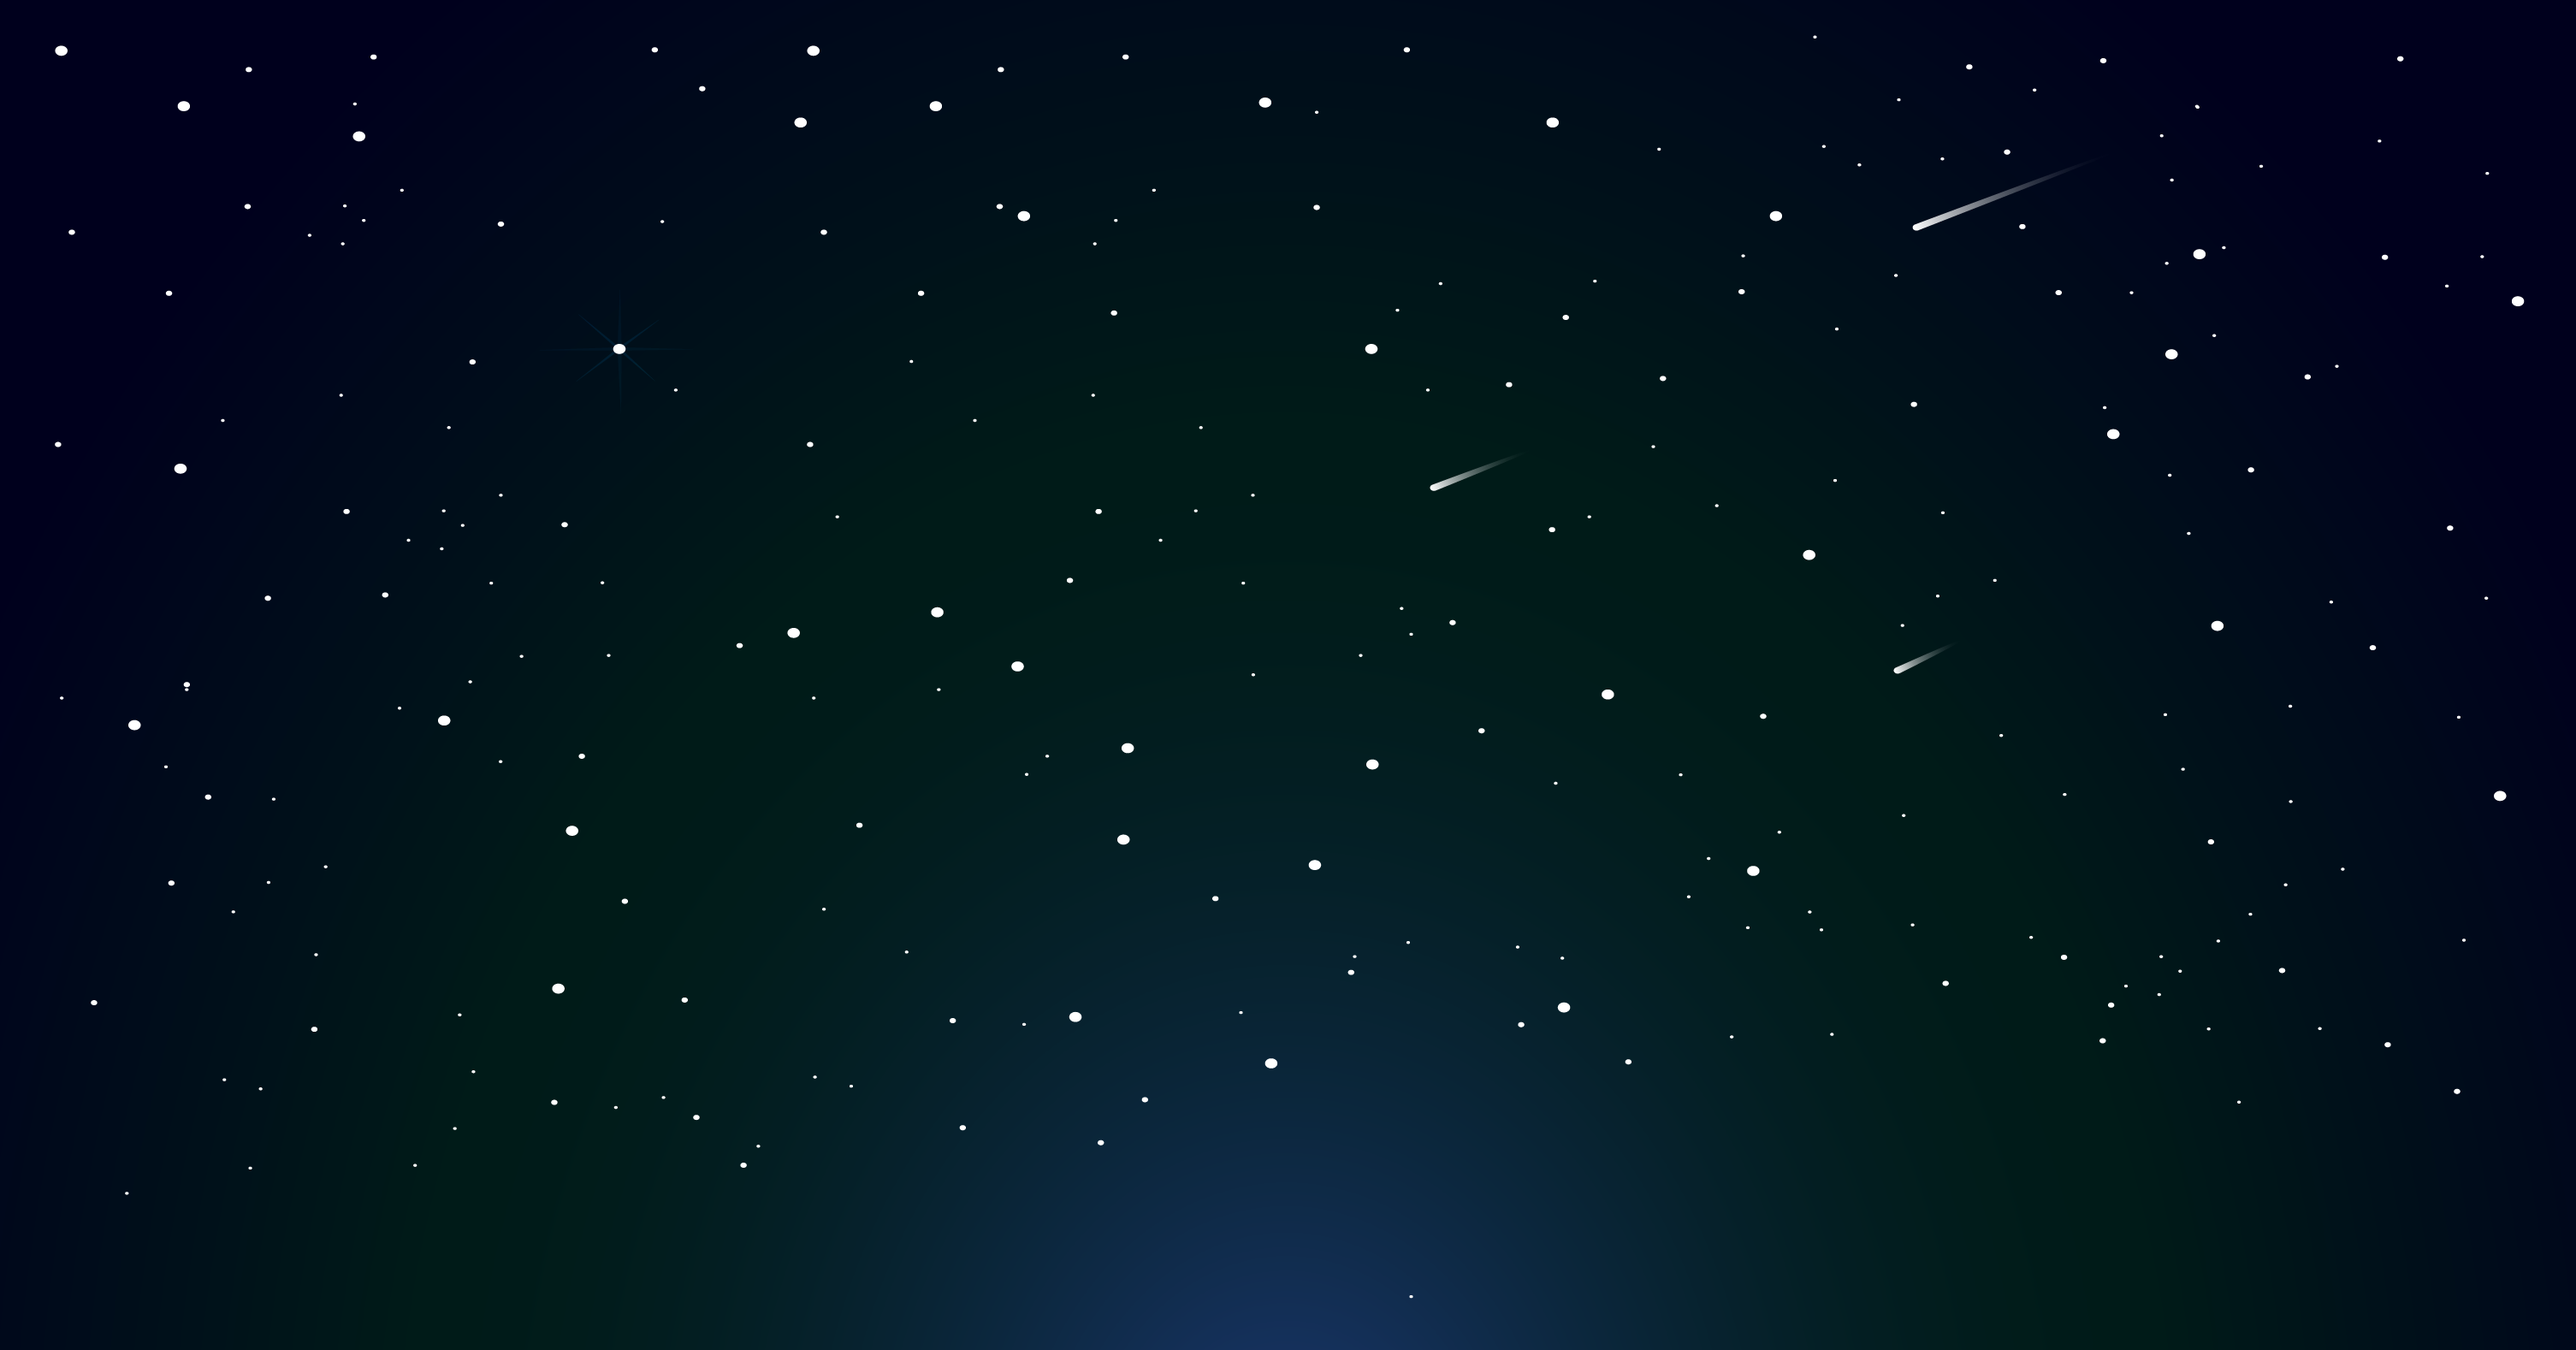
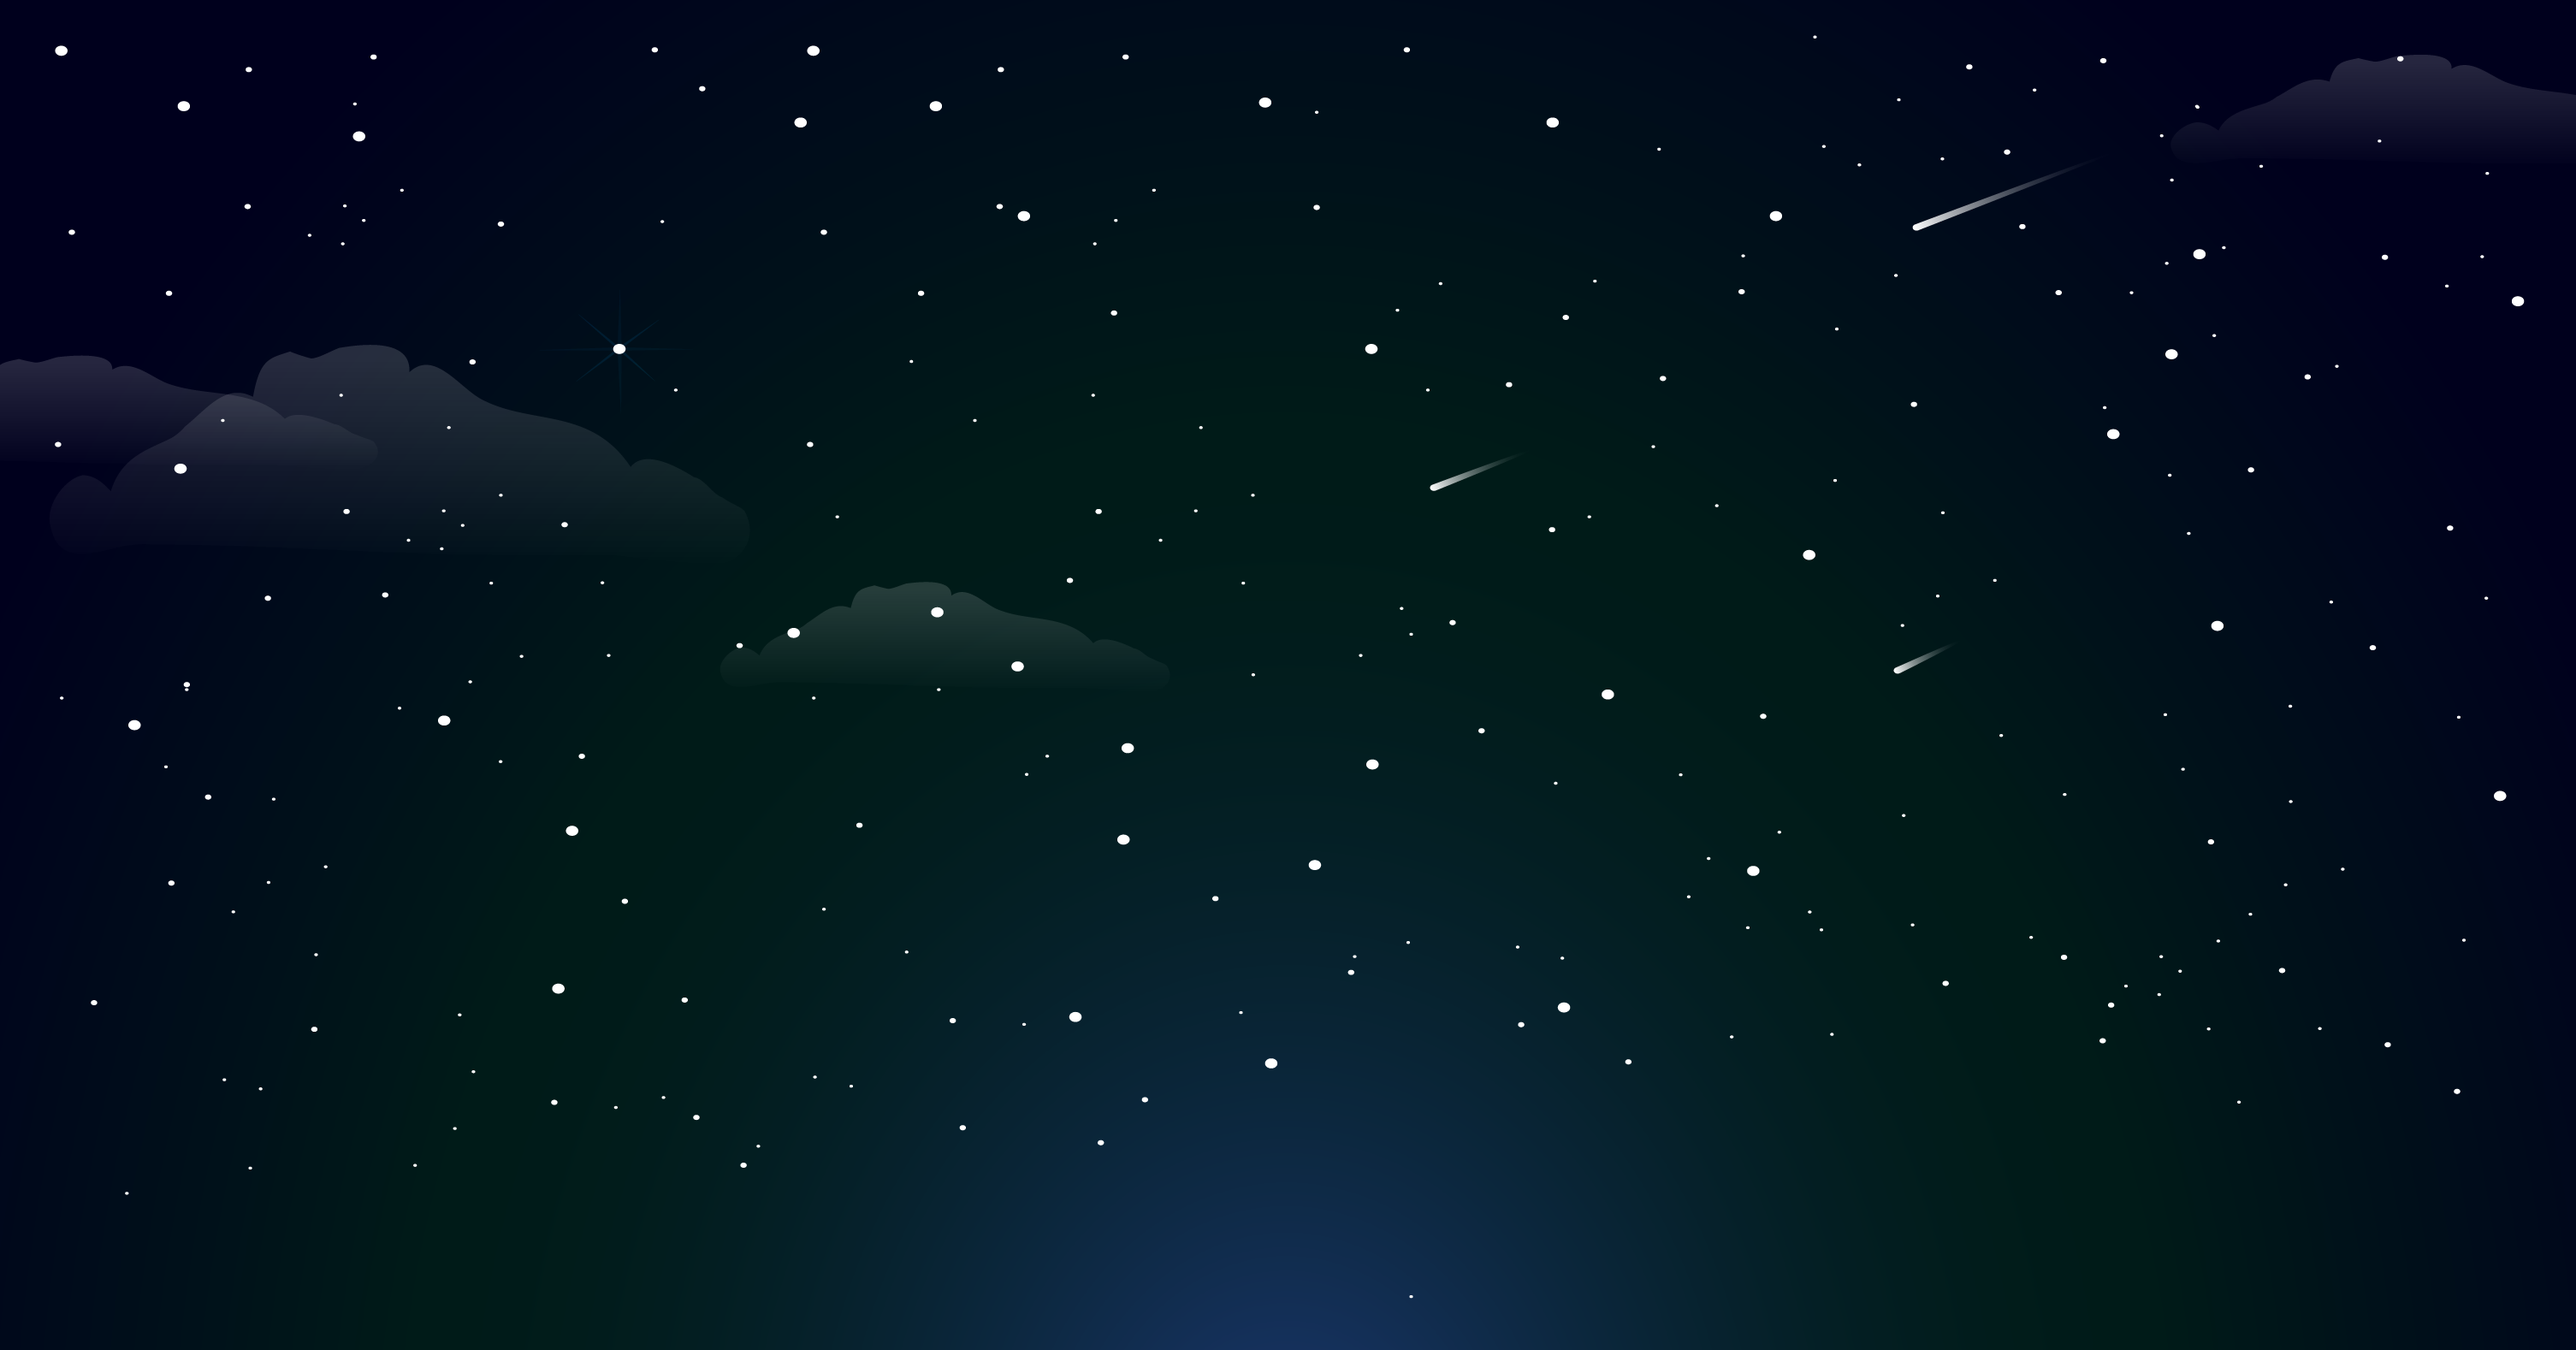
se agregan imagenes al index

Changed region(s): [[0.0, 0.2484, 0.2185, 0.3416], [0.8741, 0.0311, 1.0, 0.0932], [0.3122, 0.4347, 0.4058, 0.4658]]

diff --git a/index.html b/index.html
@@ -11,18 +11,61 @@
     <div id="root"></div>
     <script type="module" src="/src/main.jsx"></script>
 
-    <div>
+    <div class="paralax">
       <div class="paralax-item p-item1"></div>
       <div class="paralax-item p-item2"></div>
       <div class="paralax-item p-item3"></div>
       <div class="paralax-item p-item4"></div>
     </div>
 
-    <div class="container">
-      <div class="content-header">
-        <h1>Parallax Design</h1>
-        <h2>The next lever scrolling</h2>
-      </div>
+    <section>
+      <h2 id="text"><span>It's time for new </span><br />Adventure</h2>
+      <img src="/src/assets/moon-1.png" id="moon" />
+      <img src="/src/assets/fuji.png" id="fuji" />
+      <a href="#" id="btn">Explore</a>
+      <img src="/src/assets/montan-1.png" id="montan-1" />
+    </section>
+
+    <div class="sec">
+      <h2>Parallax scrolling Effects</h2>
+      <p>
+        Lorem ipsum dolor sit amet consectetur adipisicing elit. A corporis est
+        perspiciatis quo dicta cupiditate? Hic illum magni atque laboriosam
+        obcaecati magnam.<br /><br />
+        Assumenda corrupti quam veritatis, hic eius error esse! Quisquam nostrum
+        laborum, necessitatibus quibusdam nulla tenetur sapiente, est quis optio
+        illum mollitia vitae accusamus maiores. <br /><br />
+        Voluptatibus sint velit eius rerum necessitatibus adipisci magnam id!
+        Delectus doloremque dolorem sed totam. Perspiciatis sed consectetur eos
+        quasi esse beatae provident, perferendis eum veniam numquam, voluptates
+        neque incidunt sint corrupti recusandae deleniti omnis, aperiam vero
+        animi culpa? Dolore nemo assumenda esse aliquam minus.<br /><br />
+        Reiciendis magni id repellat maiores repellendus quas commodi ipsum
+        accusantium eveniet voluptatem dolor ratione, quisquam cum tempore!
+        Optio sed neque veritatis voluptatibus corporis id vitae necessitatibus
+        perspiciatis numquam dolores! Accusantium. Dignissimos hic error
+        doloremque nobis distinctio dicta alias veniam aliquid modi sunt
+        praesentium, voluptate amet, corporis maiores nam minus quis, atque
+        ratione rerum velit cumque at quo! Cupiditate, debitis tempore! Numquam
+        voluptas nam fugit, voluptatum ex cum alias excepturi debitis suscipit
+        officiis laboriosam, deleniti provident distinctio consequatur
+        perferendis, odit architecto fuga sed maiores inventore eius autem
+        pariatur. Tempore, quidem libero? Repellendus sed ullam quod corporis
+        distinctio nostrum, aspernatur asperiores aperiam, et illum deleniti?
+        Harum cum excepturi et illum laudantium blanditiis, modi asperiores
+        officiis incidunt corrupti vel cupiditate, at non ratione. Nisi aliquam
+        libero laboriosam, necessitatibus sunt doloremque ipsum itaque sed ut
+        sit, sequi nihil pariatur laborum accusantium rem culpa cumque inventore
+        cupiditate odio obcaecati illo aperiam numquam laudantium! Nihil, ex.<br /><br />
+        Recusandae voluptates molestias neque voluptatibus, totam quisquam
+        itaque nemo aut dolore maiores corporis harum sed aliquid nihil odio sit
+        deleniti debitis consequuntur consectetur veniam quis? Rerum nemo
+        expedita exercitationem laborum.<br /><br />
+        Ab, minus quibusdam corporis aliquam rem soluta accusamus architecto,
+        labore magnam sunt harum unde pariatur odit optio, similique libero
+        praesentium animi dolores corrupti voluptates dolorum repellat earum.
+        Voluptatem, nobis nemo.
+      </p>
     </div>
   </body>
 </html>

diff --git a/src/index.css b/src/index.css
@@ -1,3 +1,124 @@
+* {
+  margin: 0;
+  padding: 0;
+  box-sizing: border-box;
+}
+
 body {
-       background-color: #bce6df;
-  }
+  overflow-x: hidden;
+  background-color: #202020;
+  min-height: 100vh;
+}
+
+.paralax {
+  position: absolute;
+  height: 100%;
+}
+
+.paralax-item {
+  position: fixed;
+  width: 100%;
+  height: 100%;
+  top: 0;
+  left: 0;
+}
+
+.p-item1 {
+  background: url(assets/background.png) center/cover no-repeat;
+}
+
+section {
+  position: relative;
+  width: 100%;
+  min-height: 100vh;
+  display: flex;
+  justify-content: center;
+  align-items: center;
+}
+
+section img {
+  position: absolute;
+  top: 0;
+  left: 0;
+  width: 100%;
+  height: 100%;
+  object-fit: cover;
+  pointer-events: none;
+}
+
+section #fuji {
+  width: 100%;
+  height: 40%;
+  transform: translateY(65vh);
+  -webkit-transform: translateY(65vh);
+  -moz-transform: translateY(65vh);
+  -ms-transform: translateY(65vh);
+  -o-transform: translateY(65vh);
+}
+
+section #montan-1 {
+  width: 100%;
+  height: 35%;
+  transform: translateY(65vh);
+  -webkit-transform: translateY(65vh);
+  -moz-transform: translateY(65vh);
+  -ms-transform: translateY(65vh);
+  -o-transform: translateY(65vh);
+}
+
+section #text {
+  position: absolute;
+  font-size: 10vh;
+  text-align: center;
+  color: antiquewhite;
+  line-height: 0.55em;
+  transform: translateY(-50px);
+  -webkit-transform: translateY(-50px);
+  -moz-transform: translateY(-50px);
+  -ms-transform: translateY(-50px);
+  -o-transform: translateY(-50px);
+}
+
+section #text span {
+  font-size: 0.2em;
+  letter-spacing: 2px;
+  font-weight: 400px;
+}
+
+#btn {
+  text-decoration: none;
+  display: inline-block;
+  padding: 8px 30px;
+  background: #fff;
+  color: #094b65;
+  font-size: 1.2em;
+  font-weight: 500;
+  letter-spacing: 2px;
+  border-radius: 40px;
+  -webkit-border-radius: 40px;
+  -moz-border-radius: 40px;
+  -ms-border-radius: 40px;
+  -o-border-radius: 40px;
+  transform: translateY(100px);
+  -webkit-transform: translateY(100px);
+  -moz-transform: translateY(100px);
+  -ms-transform: translateY(100px);
+  -o-transform: translateY(100px);
+}
+
+.sec {
+  position: relative;
+  padding: 100px;
+  background: #001b18;
+}
+
+.sec h2 {
+  font-size: 3.5em;
+  color: #fff;
+  margin-bottom: 10px;
+}
+
+.sec p {
+  font-size: 1em;
+  color: #fff;
+}
